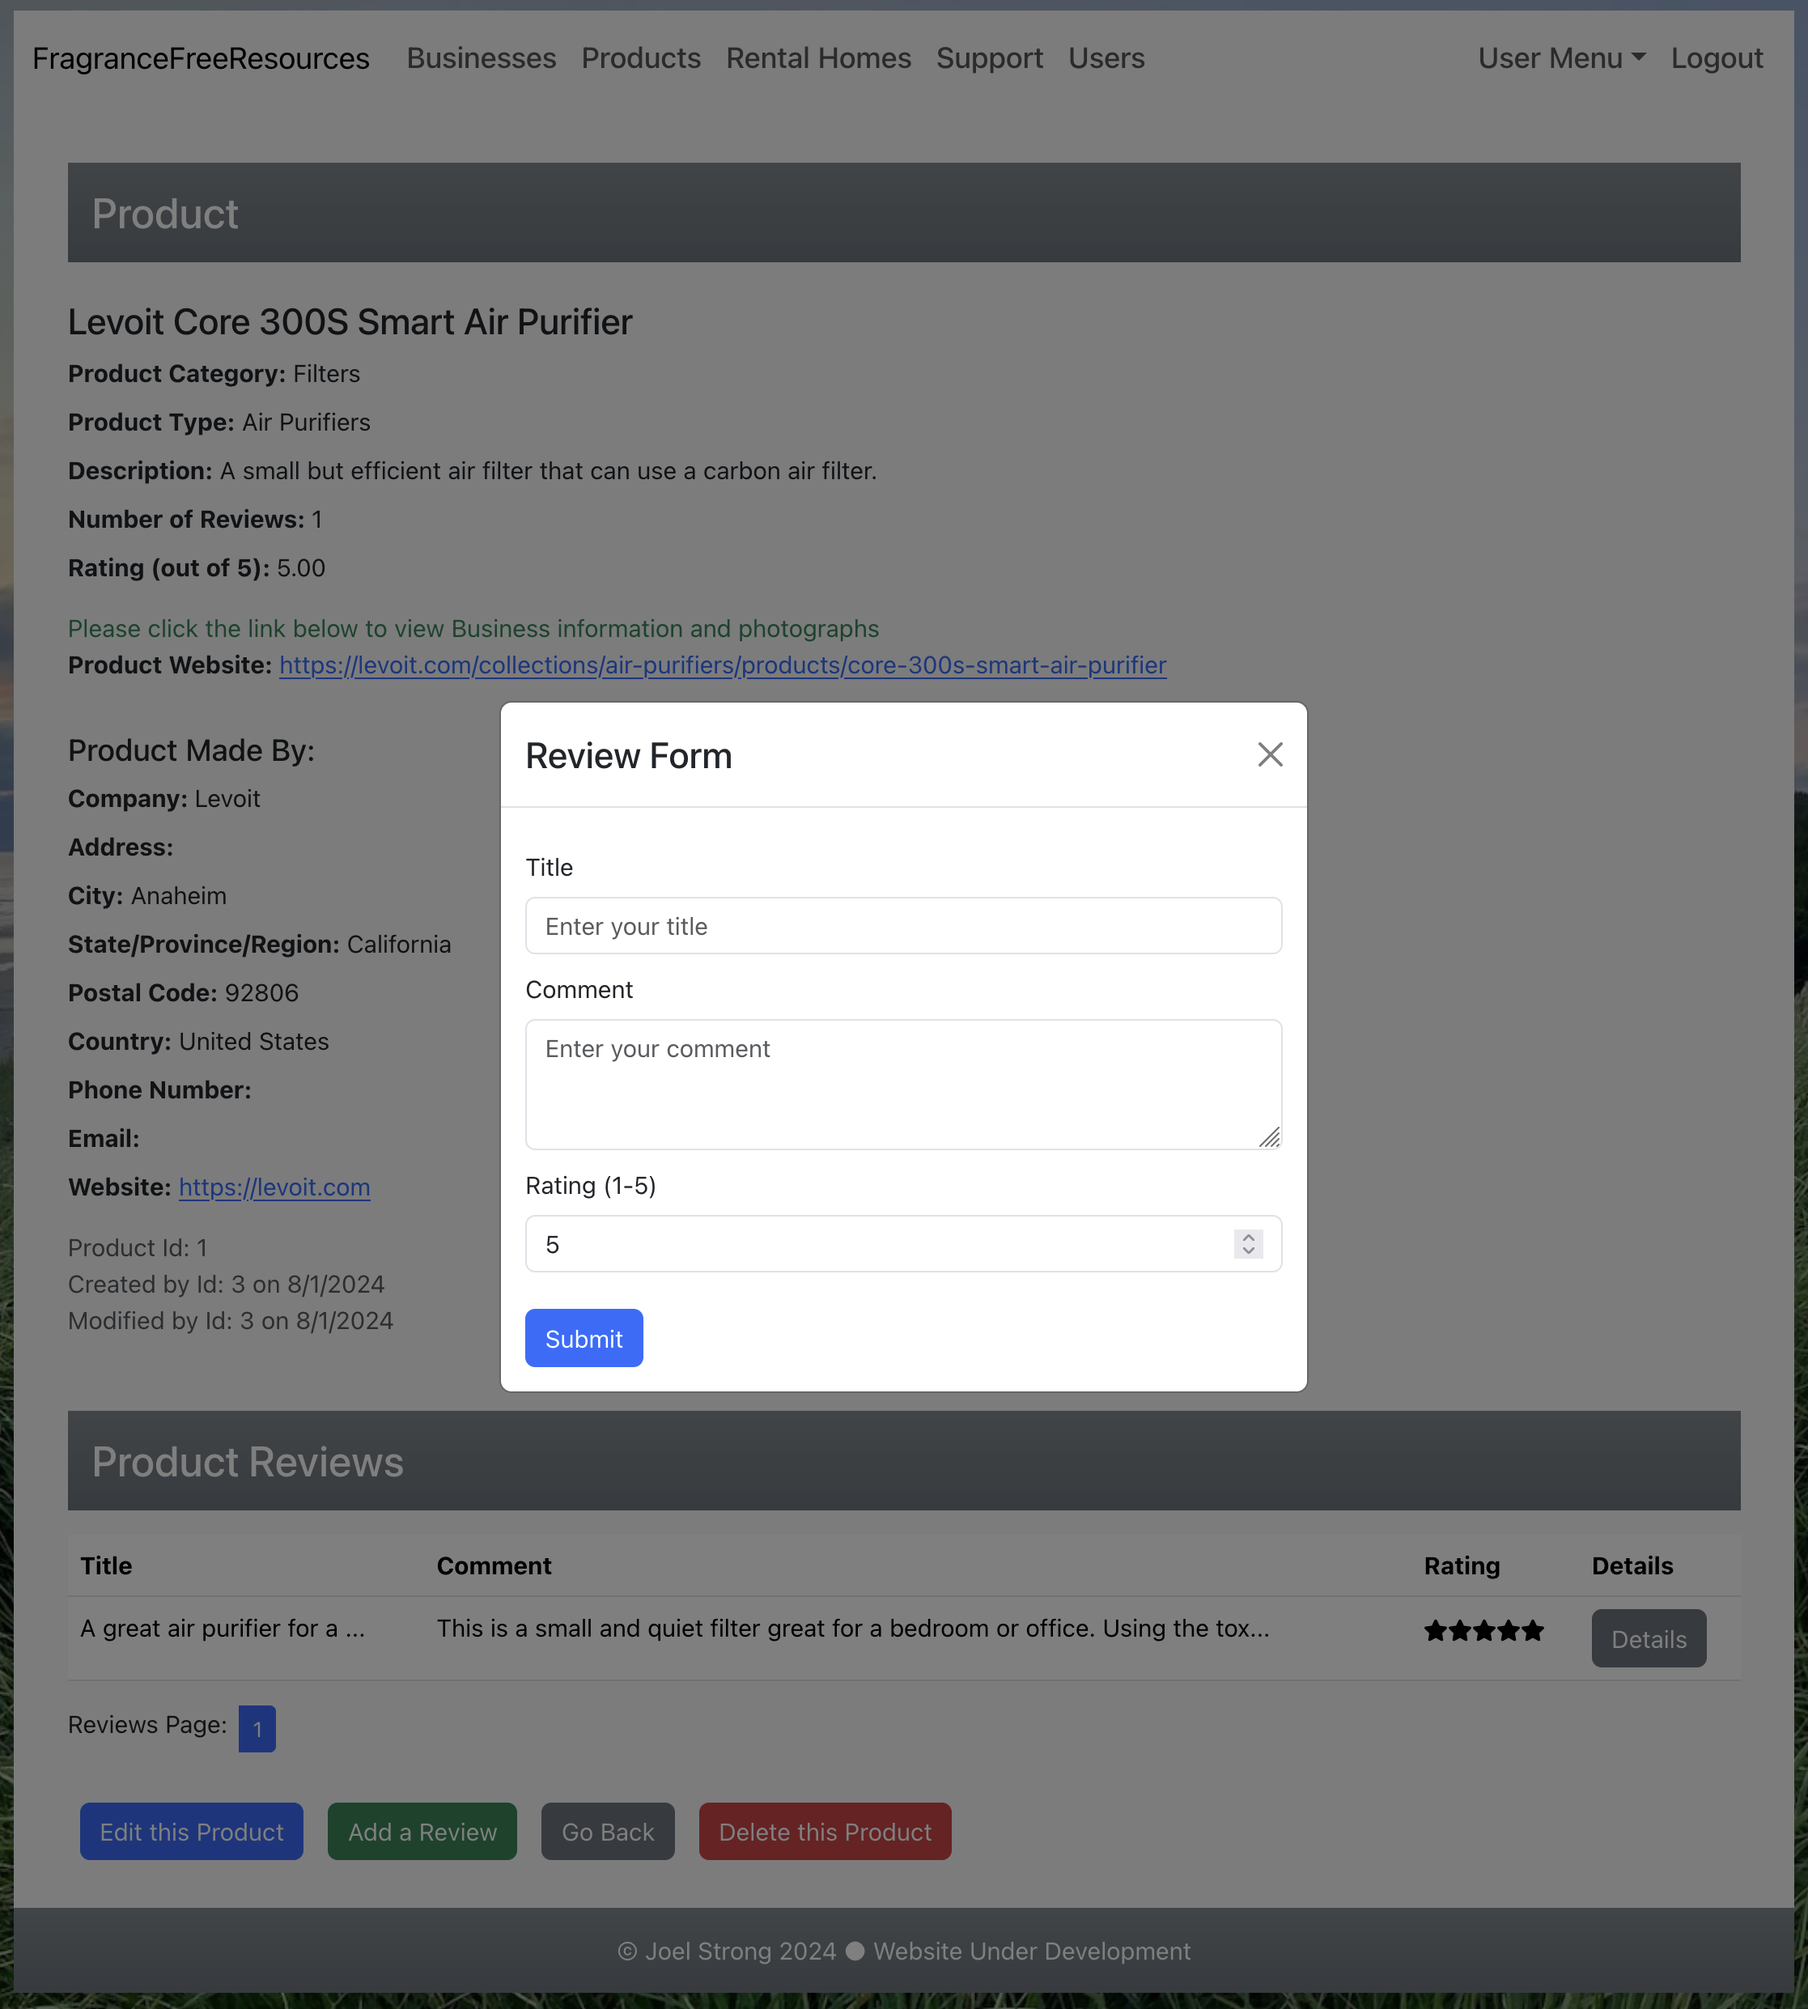
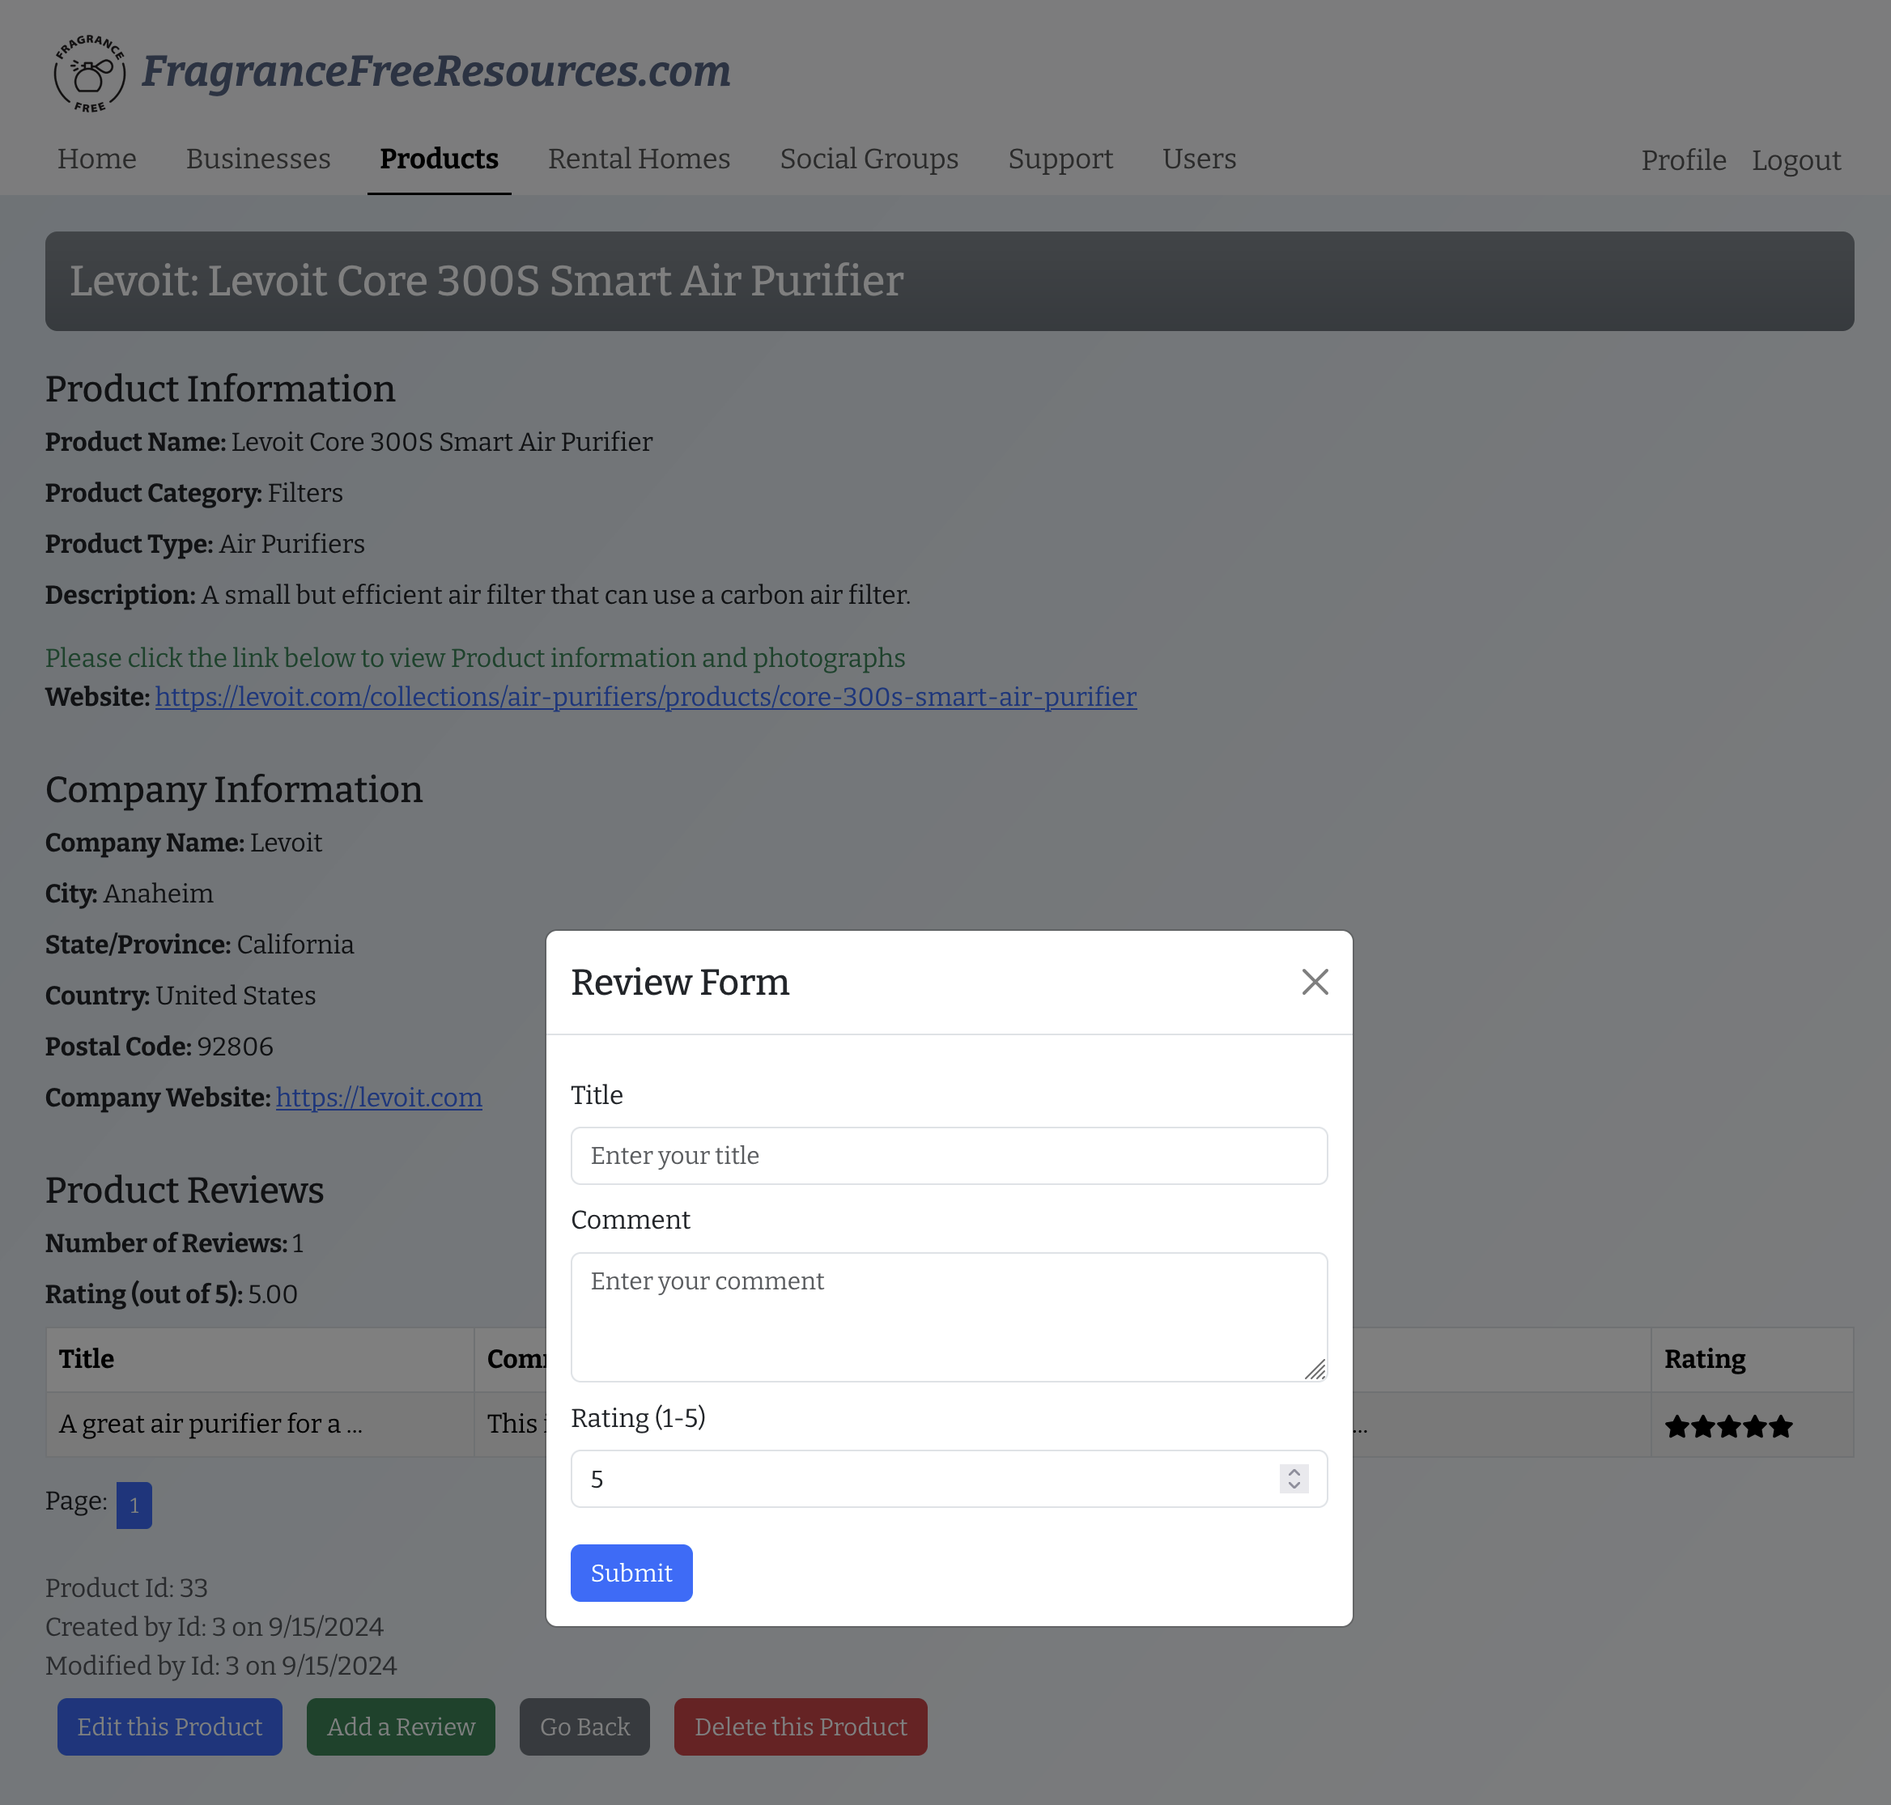
Added diploma and updated resume.  Updated pictures for FFR redesign and changed nav hover css.

diff --git a/src/components/Certifications.js b/src/components/Certifications.js
@@ -97,7 +97,7 @@ function Certifications() {
                         <a href="https://coursera.org/share/0e340a32d14f1aad0b6fcf23c8da42ca"
                            target="_blank" rel="noopener noreferrer">
                             <img height="300" alt="Introduction to Generative AI" border="0" align="center"
-                                 src="./certifications/gcpGenerativeAi.png"/>
+                                 src="./certifications/gcpGenerativeAI.png"/>
                         </a><p><strong>Introduction to Generative AI</strong></p>
                     </div>
 
@@ -127,6 +127,17 @@ function Certifications() {
                             <img height="425" alt="Google Agile Project Management" border="0" align="center"
                                  src="./certifications/AgileProjectManagement.png"/>
                         </a><p><strong>Agile Project Management</strong></p>
+                    </div>
+                </div>
+
+                <h3>Diploma - Bachelor of Science in Computer Science</h3>
+                <div className='skillsParent'>
+                    <div className='skillsChild'>
+                        <a href="https://www.michaelsutter.com/ediploma?fn=diplomastatuscheck&key=02000000343d3683d10c064811946bb80683c96d85b6c0b9fa40c5cfe971fa505ced7b2c54a73b35856352081c6fb8833728fa7c1a1f042659c17369b0c64c4cb2f3bfff"
+                           target="_blank" rel="noopener noreferrer">
+                            <img height="425" alt="Bachelor of Science in Computer Science Diploma" border="0" align="center"
+                                 src="./certifications/Diploma.png"/>
+                        </a>
                     </div>
                 </div>
                 <a href="#top">Back to top</a>

diff --git a/src/pages/ContactPage.js b/src/pages/ContactPage.js
@@ -26,14 +26,14 @@ class Contact extends Component {
 
                     <p className='centered'>I look forward to hearing from you!</p>
 
-{/*                    <img src="/images/headshot.jpg" style={{borderRadius: '25px', paddingRight: '20 px'}} width='250px'
-                         alt="Website Logo"></img>
-                    <img src="/images/WebsiteQR.png" style={{marginLeft: '25 px'}} width='250px'
-                         alt="Website Logo"></img>*/}
                     <h1>Joel Strong</h1>
                     <h2>Full Stack Software Engineer</h2>
                     <div>
-                        <img className="responsive-img" src="/images/SpringBusinessCard.png" width='900px' alt="Programming Business Card"></img>
+                        <img className="responsive-img"
+                             src="/images/SpringBusinessCard.png"
+                             style={{maxWidth: '800px'}}
+                             alt="Programming Business Card">
+                        </img>
                     </div>
                 </div>
 

diff --git a/src/pages/HomePage.js b/src/pages/HomePage.js
@@ -42,7 +42,7 @@ function HomePage() {
             <article>
                 <h3>Languages & Frameworks</h3>
                 <p>This is a list of languages & frameworks that I have learned with the expressed interest in building
-                    applications with them. I am a life-long learner and interested in adding new languages and frameworks that help me achieve the goals of the projects I am working on. <br></br><span style={{color: 'red'}}> Certifications for many of the skills below can be found on my Resume page. </span></p>
+                    applications with them. I am a life-long learner and interested in adding new languages and frameworks that help me achieve the goals of the projects I am working on.</p>
 
         <div className='skillsParent'>
             <div className='skillsChild'>

diff --git a/src/App.css b/src/App.css
@@ -110,8 +110,8 @@
 
 /* Links on mouse-over */
 .sidebar a:hover:not(.active) {
-  color: var(--less-light-orange);
-  background-color: var(--color-non-trans-grey-blue);
+  font-weight: bold;
+  text-decoration: underline;
 }
 
 /* Page content. The value of the margin-left property should match the value of the sidebar's width property */
